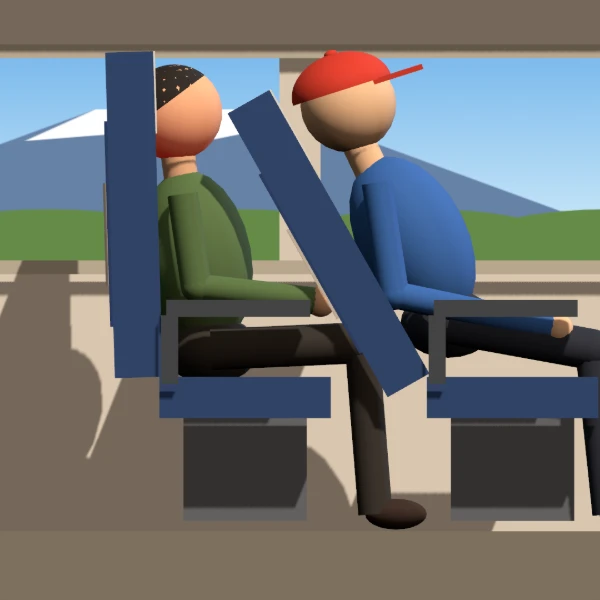
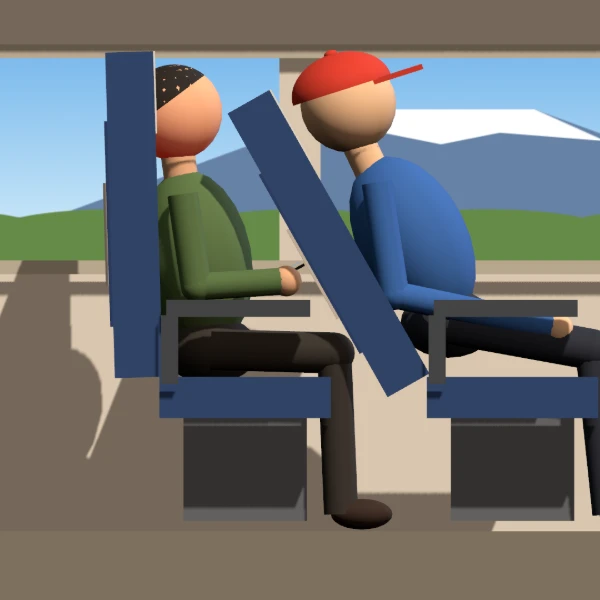
倒してもいいですかゲーム: 後ろの人のひざが前の座席に食い込まないように・開始前ももたれた姿勢
Claude-Session: https://claude.ai/code/session_018xrmvF8gWERdhCwbzd4Zu1

diff --git a/games/_taoshite/scene3d.js b/games/_taoshite/scene3d.js
@@ -238,8 +238,9 @@
     /* 頭は当たりの形と同じ場所・向きに置く（ずらさない） */
     var b = backHead(s.lean), back = 0;
     var bh = { x: b.head.x, y: b.head.y };
-    var bknee = { x: b.hip.x + 0.44, y: SEAT_Y + 0.1 }, bfoot = { x: bknee.x + 0.04, y: 0.05 };
-    var hand = { x: b.hip.x + 0.32, y: b.hip.y + 0.14 };
+    /* 前の座席が近いので、ひざは低めに手前で止め、手も体に寄せる（倒れてきた背もたれに食い込まない） */
+    var bknee = { x: b.hip.x + 0.36, y: SEAT_Y + 0.07 }, bfoot = { x: bknee.x + 0.02, y: 0.05 };
+    var hand = { x: b.hip.x + 0.22, y: b.hip.y + 0.2 };
     this.pose(this.him, { hip: b.hip, sh: { x: b.sh.x - back * 0.6, y: b.sh.y }, head: bh, nd: b.nd,
       knee: bknee, foot: bfoot, elbow: { x: b.sh.x + 0.04, y: b.sh.y - 0.27 }, hand: hand });
     this.him.faceMat.emissiveIntensity = Math.max(s.angry * 0.8, Math.max(0, s.near - 0.5) * 0.6);

diff --git a/games/_taoshite/index.html b/games/_taoshite/index.html
@@ -410,7 +410,7 @@
   window.zStartTap(function () { return state === S.INTRO; }, function () { startButton.click(); });
   ["pointerdown", "pointerup"].forEach(function (name) { startButton.addEventListener(name, function (e) { e.stopPropagation(); }); });
   startButton.addEventListener("click", function (e) { e.stopPropagation(); audioOn(); resumeAudio(); newRound(); });
-  angle = 0; lean = 0.5; contact = 20; T = 0; bubbles = []; state = S.INTRO; startButton.hidden = false;
+  angle = 0; lean = -0.18; contact = 20; T = 0; bubbles = []; state = S.INTRO; startButton.hidden = false;
   layout();
   var last = performance.now(), stepAcc = 0;
   function loop(now) {
